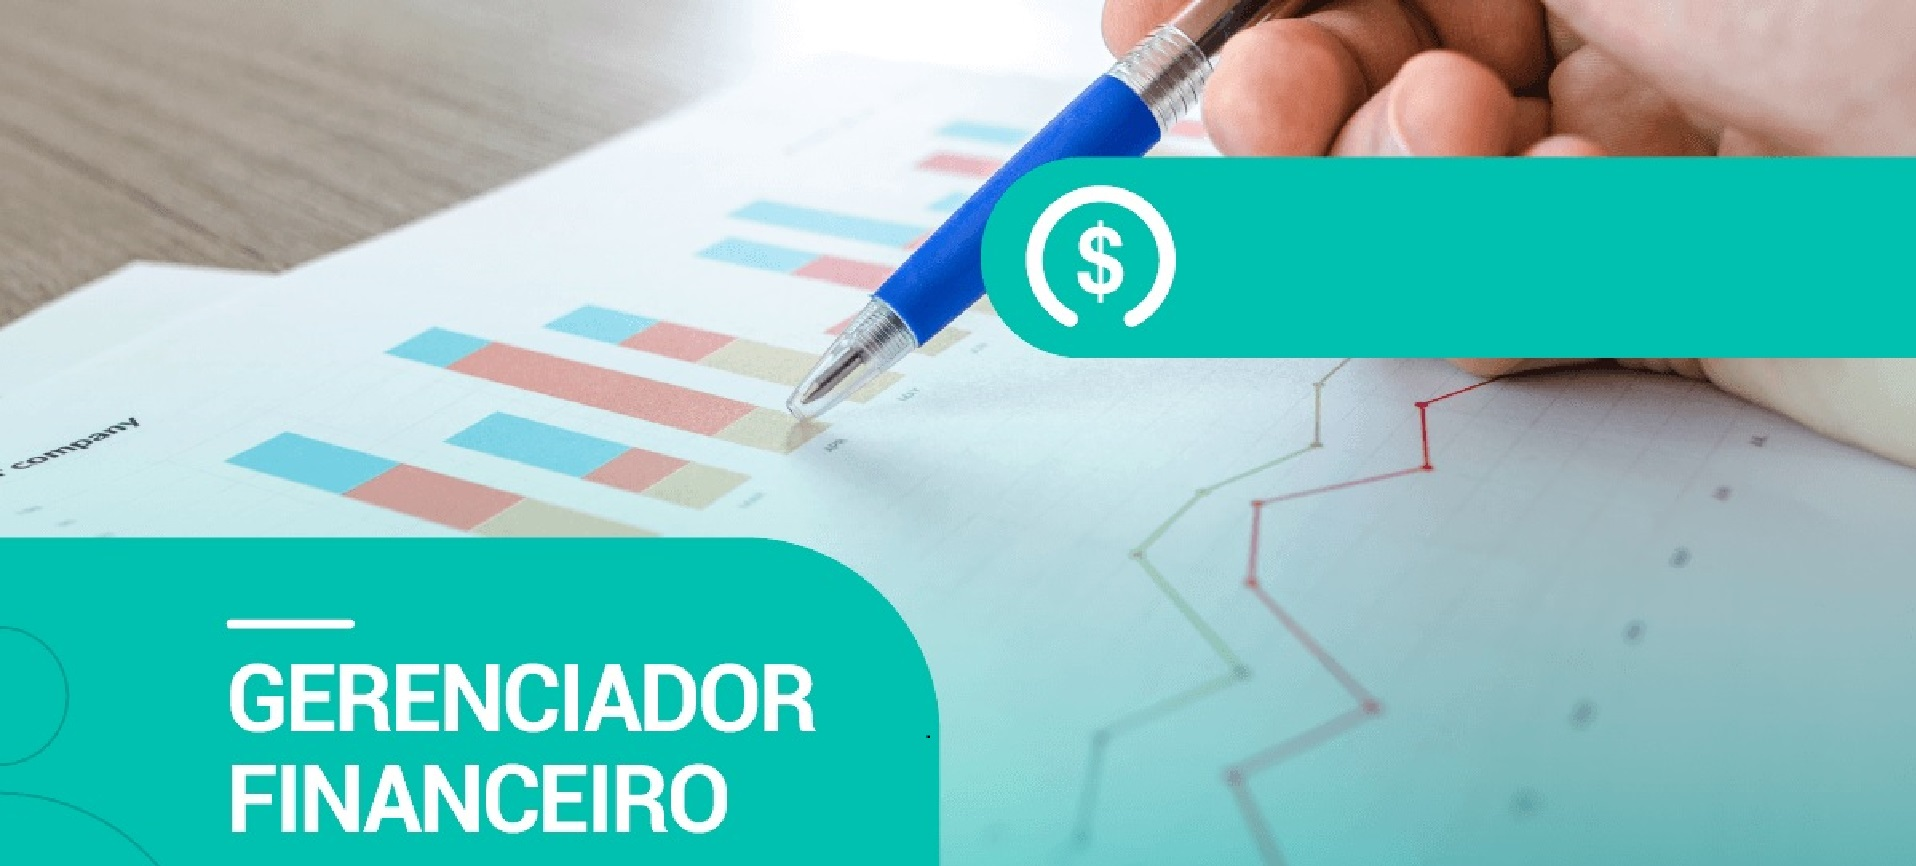
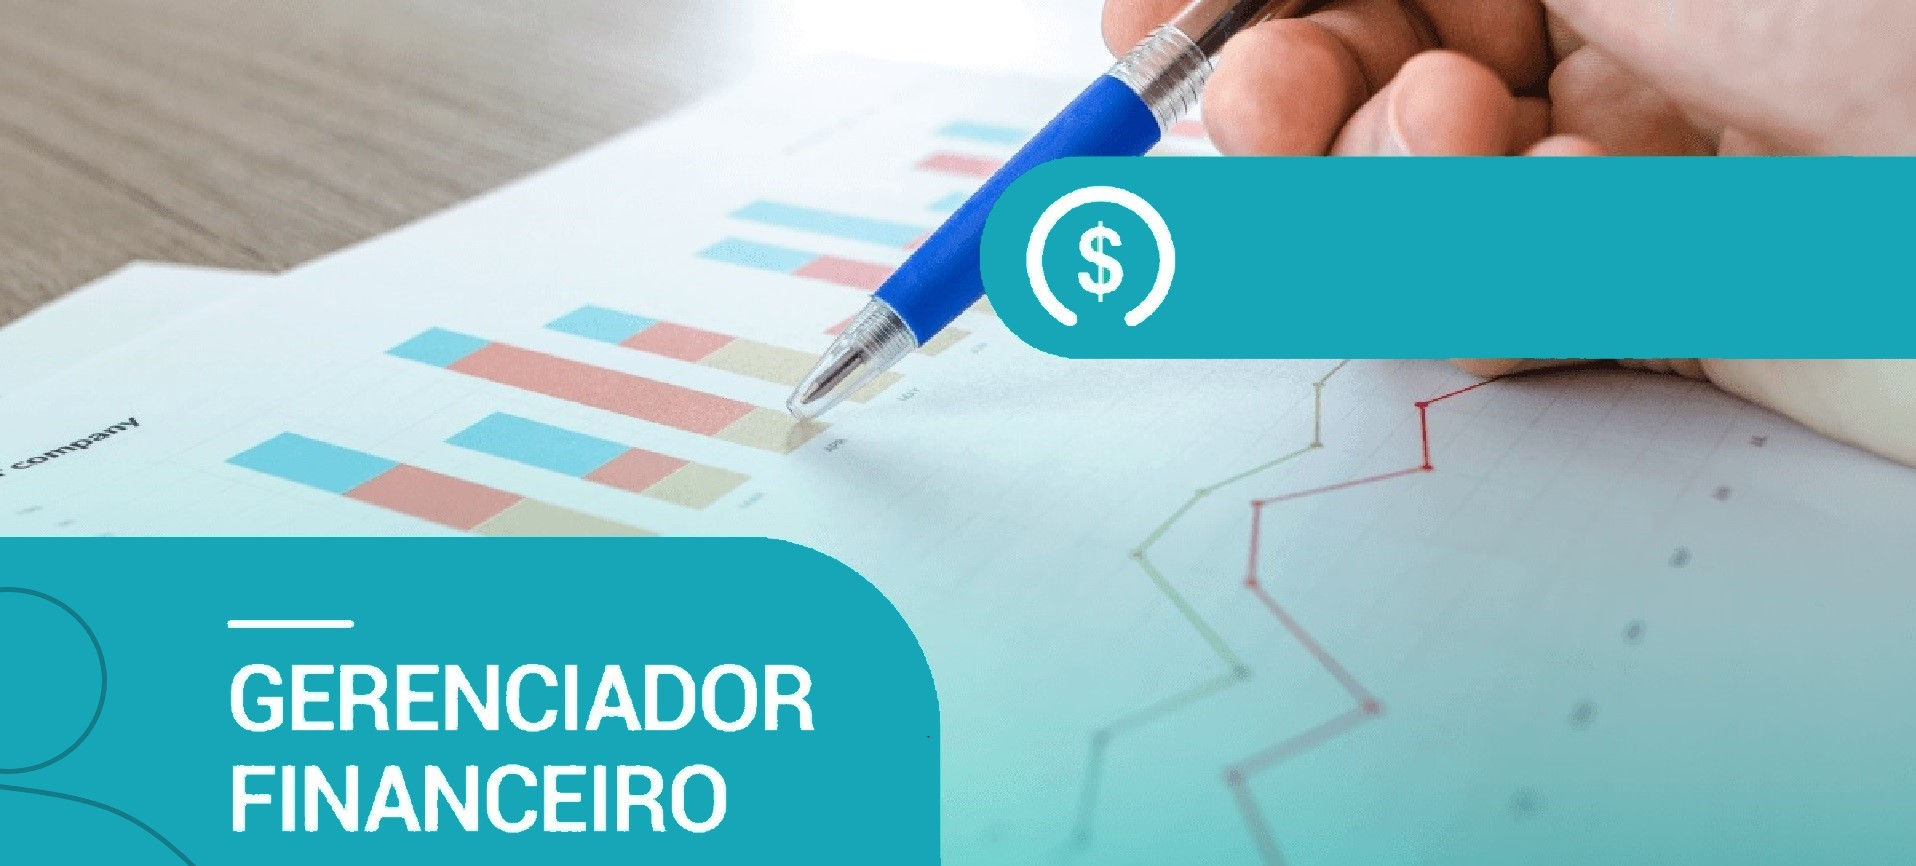
atualização pagina de boas vindas

Changed region(s): [[0.0, 0.6236, 0.4927, 1.0], [0.4927, 0.1871, 1.0, 0.4365]]

diff --git a/src/pages/BoasVindas/Index.js b/src/pages/BoasVindas/Index.js
@@ -1,0 +1,79 @@
+import React, { useState } from 'react'
+import { Container, Button, Col, Image, Navbar, Row } from 'react-bootstrap'
+import BgLogin from '../../images/BgLogin.jpg'
+import NovoBackground from '../../images/NovoBackground.jpg'
+import Monitor from '../../images/Monitor.png'
+import ico from '../../images/ico.png'
+import { useHistory } from 'react-router-dom'
+import DataProvider from '../../Services/DataProvider'
+import { GiMoneyStack } from "react-icons/gi";
+
+
+
+
+function BoasVindas() {
+    const history = useHistory()
+
+    const routeToLogin = () => {
+        history.push('/login')
+    }
+
+    const routeCadastrar = () => {
+        history.push('/cadastrar')
+    }
+
+
+    return (
+        <>
+
+            <div
+                style={{
+                    height: "100vh",
+                    minheight: "100vh",
+                    backgroundImage: "linear-gradient(to right,  #17A2B8,#CCF3F8)"
+                }}
+            >
+                <Navbar style={{ padding: 50, backgroundImage: "linear-gradient(to right,  #17A2B8,#CCF3F8)" }}>
+                    <Navbar.Brand style={{ color: "white", fontSize: "2rem" }}>
+                        <GiMoneyStack style={{ marginRight: "30px", height: "40%", width: "40%" }}></GiMoneyStack>
+                        MoneyGoes</Navbar.Brand>
+                    <Navbar.Toggle />
+                    <Navbar.Collapse className="justify-content-end">
+                        <Button
+                            style={{ borderRadius: "2rem", marginRight: "10%", width: 150 }}
+                            variant="outline-light"
+                            onClick={routeToLogin}
+                        >
+                            <label style={{
+                                fontSize: "2rem", alignItems: "center", margin: "0, 1, 7, 5"
+                            }}>Login</label>
+                        </Button>
+                    </Navbar.Collapse>
+                </Navbar>
+
+                <Image src={Monitor} style={{ position: "absolute", height: '50vh', width: '90vh', top: 220, right: 0 }} />
+
+                <h3 style={{ fontSize: "5rem", alignItems: "center", marginLeft: "5rem", padding: '5rem' }}>
+                    Sistema
+                    <h3>para Controle financeiro </h3>
+                    <h3>inteiramente online</h3>
+                    <h4>simples e gratuito</h4>
+                    <label style={{ fontSize: "1rem", marginRight: "5%" }}>Ainda não é cadastrado?</label>
+                    <br></br>
+                    <Button
+                        style={{ borderRadius: "2rem", marginRight: "10%", width: 150, alignItems: "center", justifyContent: "center" }}
+                        variant="outline-light"
+                        onClick={routeCadastrar}
+                    >
+                        <label style={{ fontSize: "1rem", marginTop: "7px" }}>cadastre-se</label>
+                    </Button>
+
+                </h3>
+
+
+            </div>
+        </>
+    )
+}
+
+export default BoasVindas

diff --git a/src/Routes.js b/src/Routes.js
@@ -7,6 +7,7 @@ import Receitas from './pages/Receitas/Receitas';
 import Login from './pages/Login';
 import Cadastrar from './pages/Cadastrar';
 import DataProvider from './Services/DataProvider'
+import BoasVindas from './pages/BoasVindas/Index';
 
 function Routes() {
 
@@ -25,7 +26,8 @@ function Routes() {
     return (
         <Router>
             <Switch>
-                <Route path='/' exact component={Login} />
+                <Route path='/' exact component={BoasVindas} />
+                <Route path='/login' exact component={Login} />
                 <PrivateRoute path='/home' exact component={Home} />
                 <PrivateRoute path='/home/contas' component={Contas} />
                 <Route path='/cadastrar' component={Cadastrar} />

diff --git a/src/pages/Login/index.js b/src/pages/Login/index.js
@@ -39,12 +39,12 @@ function Login() {
                 display: "flex",
                 alignItems: "center",
                 justifyContent: "center",
-                backgroundColor: "#00C1AF"
+                backgroundImage: "linear-gradient(to right,  #17A2B8,#CCF3F8)"
             }}
         >
             <div>
                 <Card
-                    bg='#00C1AF'
+                    bg='#17A2B8'
                     style={{
                         backgroundColor: "white",
                         width: "30rem",

diff --git a/src/pages/Cadastrar/index.js b/src/pages/Cadastrar/index.js
@@ -38,7 +38,7 @@ function Cadastrar() {
                 display: "flex",
                 alignItems: "center",
                 justifyContent: "center",
-                backgroundColor: "#00C1AF"
+                backgroundImage: "linear-gradient(to right,  #17A2B8,#CCF3F8)"
             }}>
             <div>
                 <Card

diff --git a/public/index.html b/public/index.html
@@ -31,7 +31,7 @@
   <script src="https://unpkg.com/react-bootstrap@next/dist/react-bootstrap.min.js" crossorigin></script>
 
   <script>var Alert = ReactBootstrap.Alert;</script>
-  <title>React App</title>
+  <title>MoneyGoes</title>
 
 </head>
 
